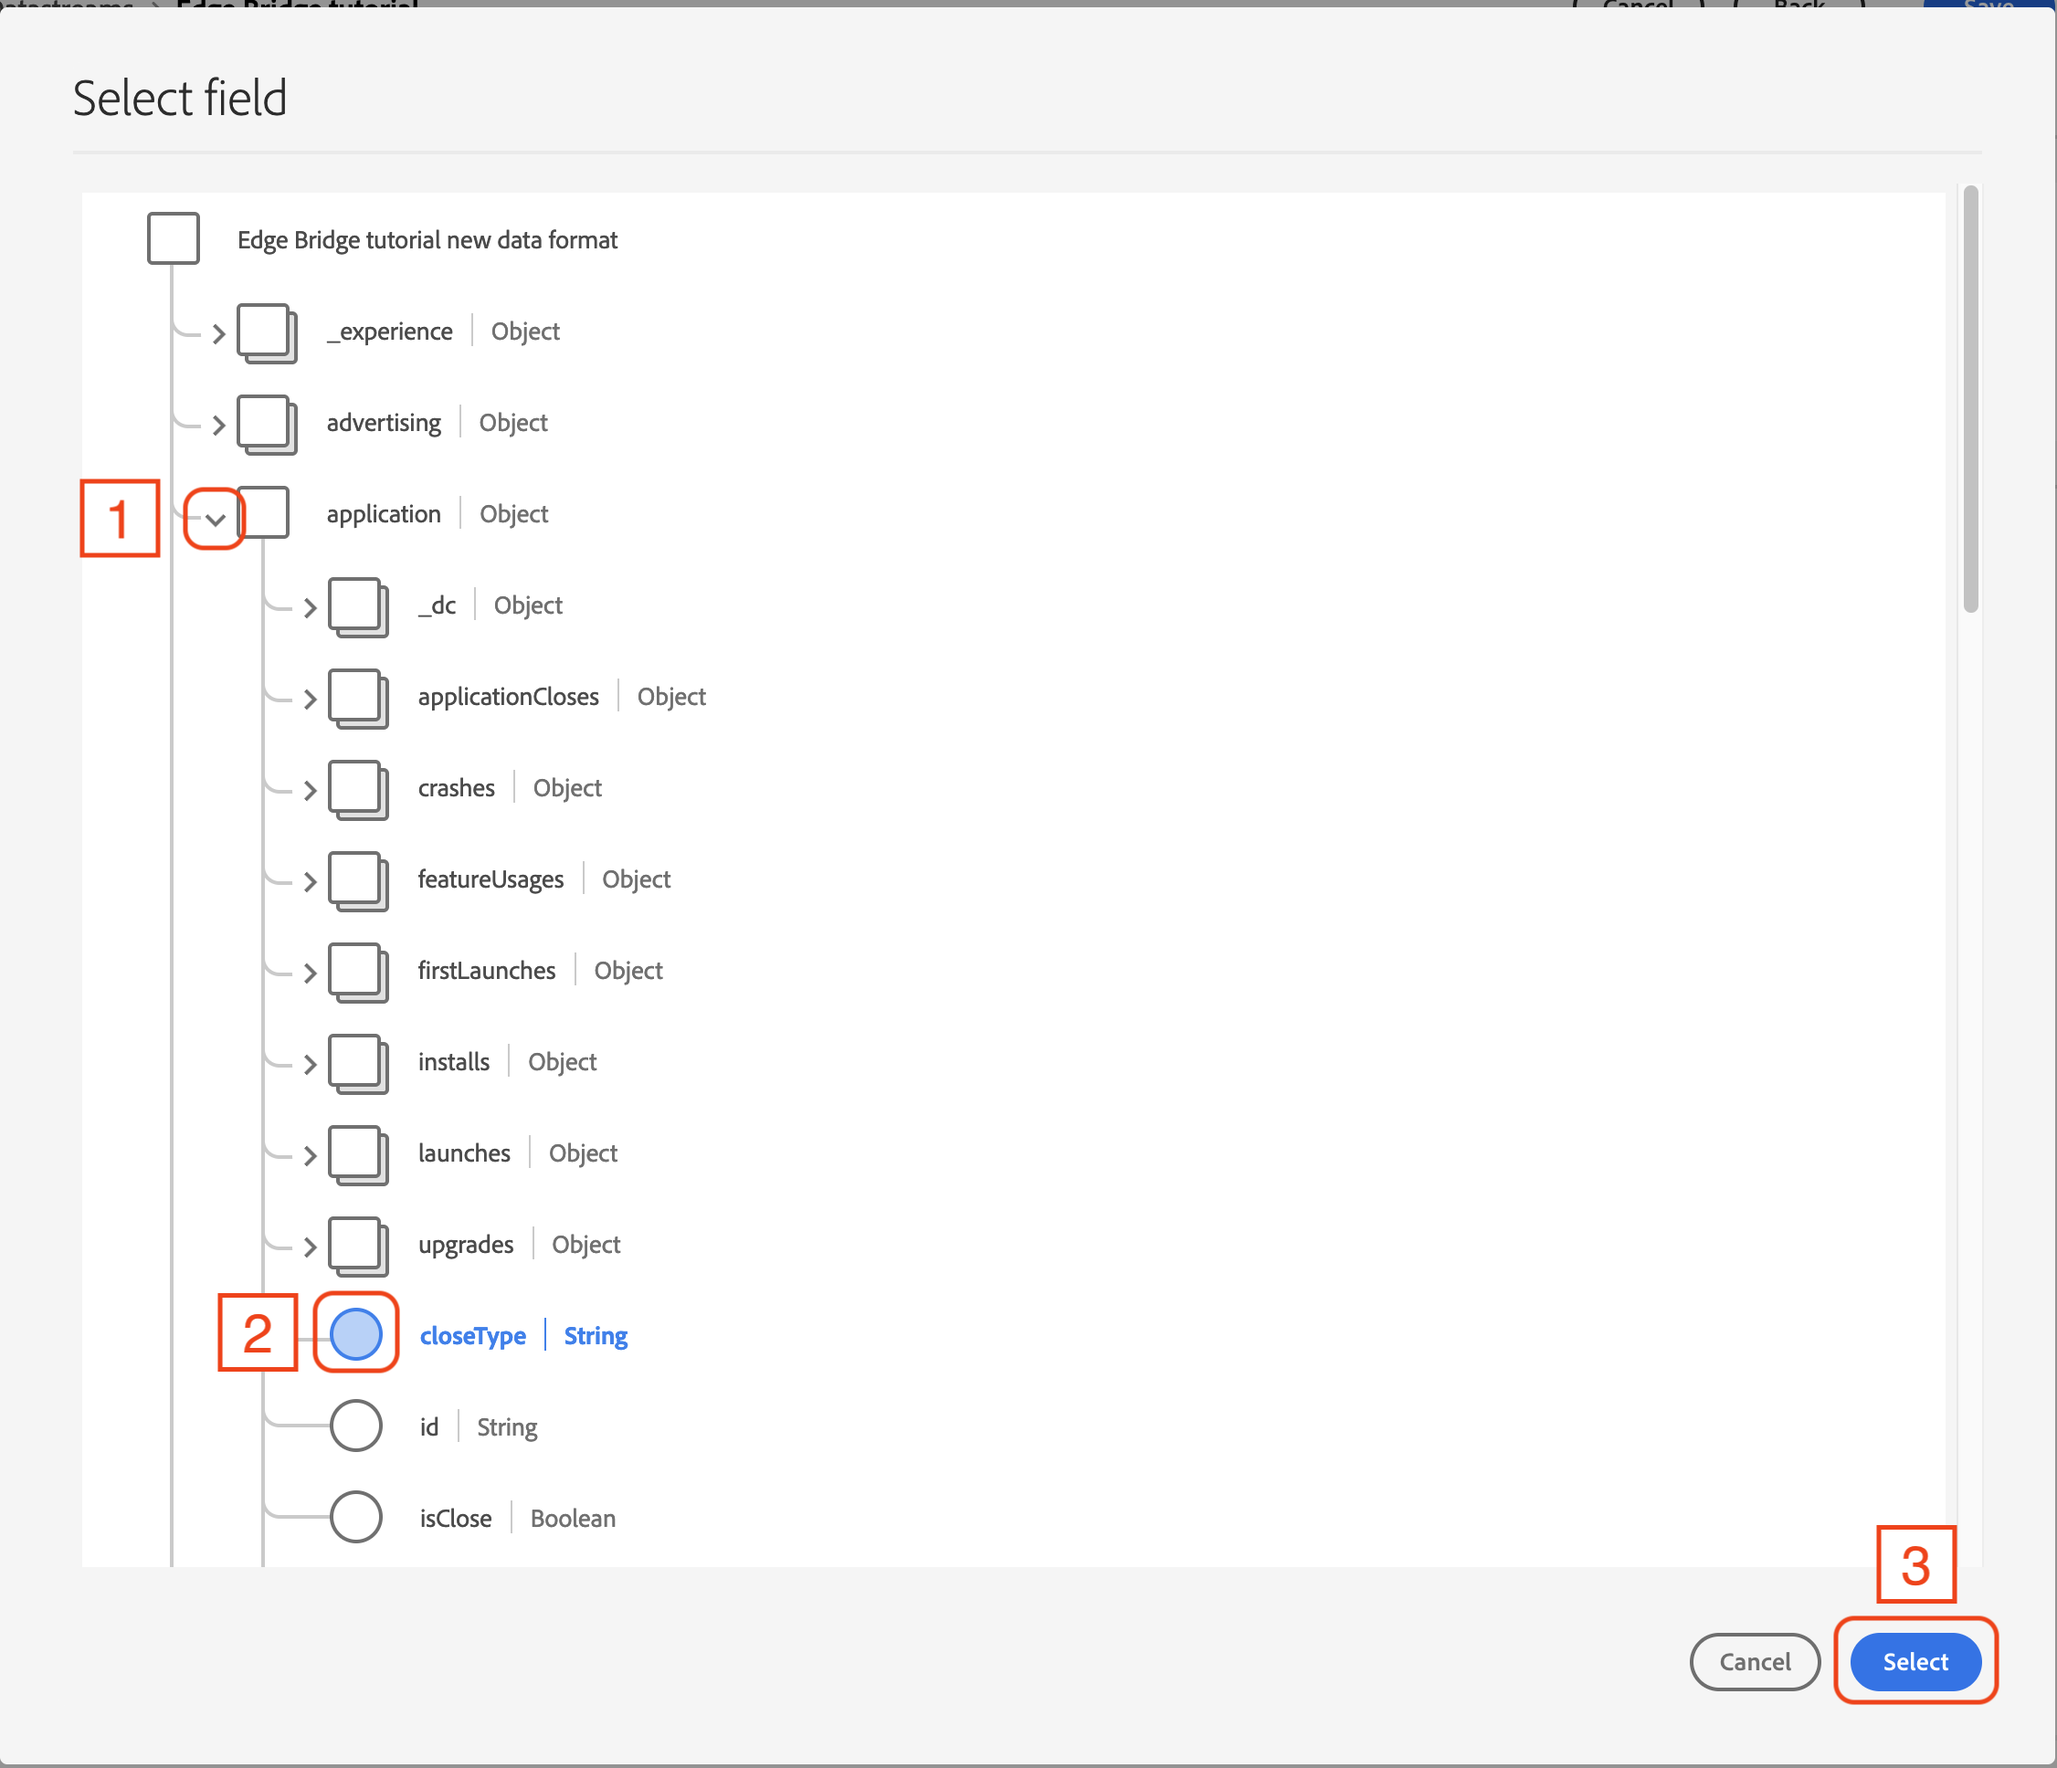
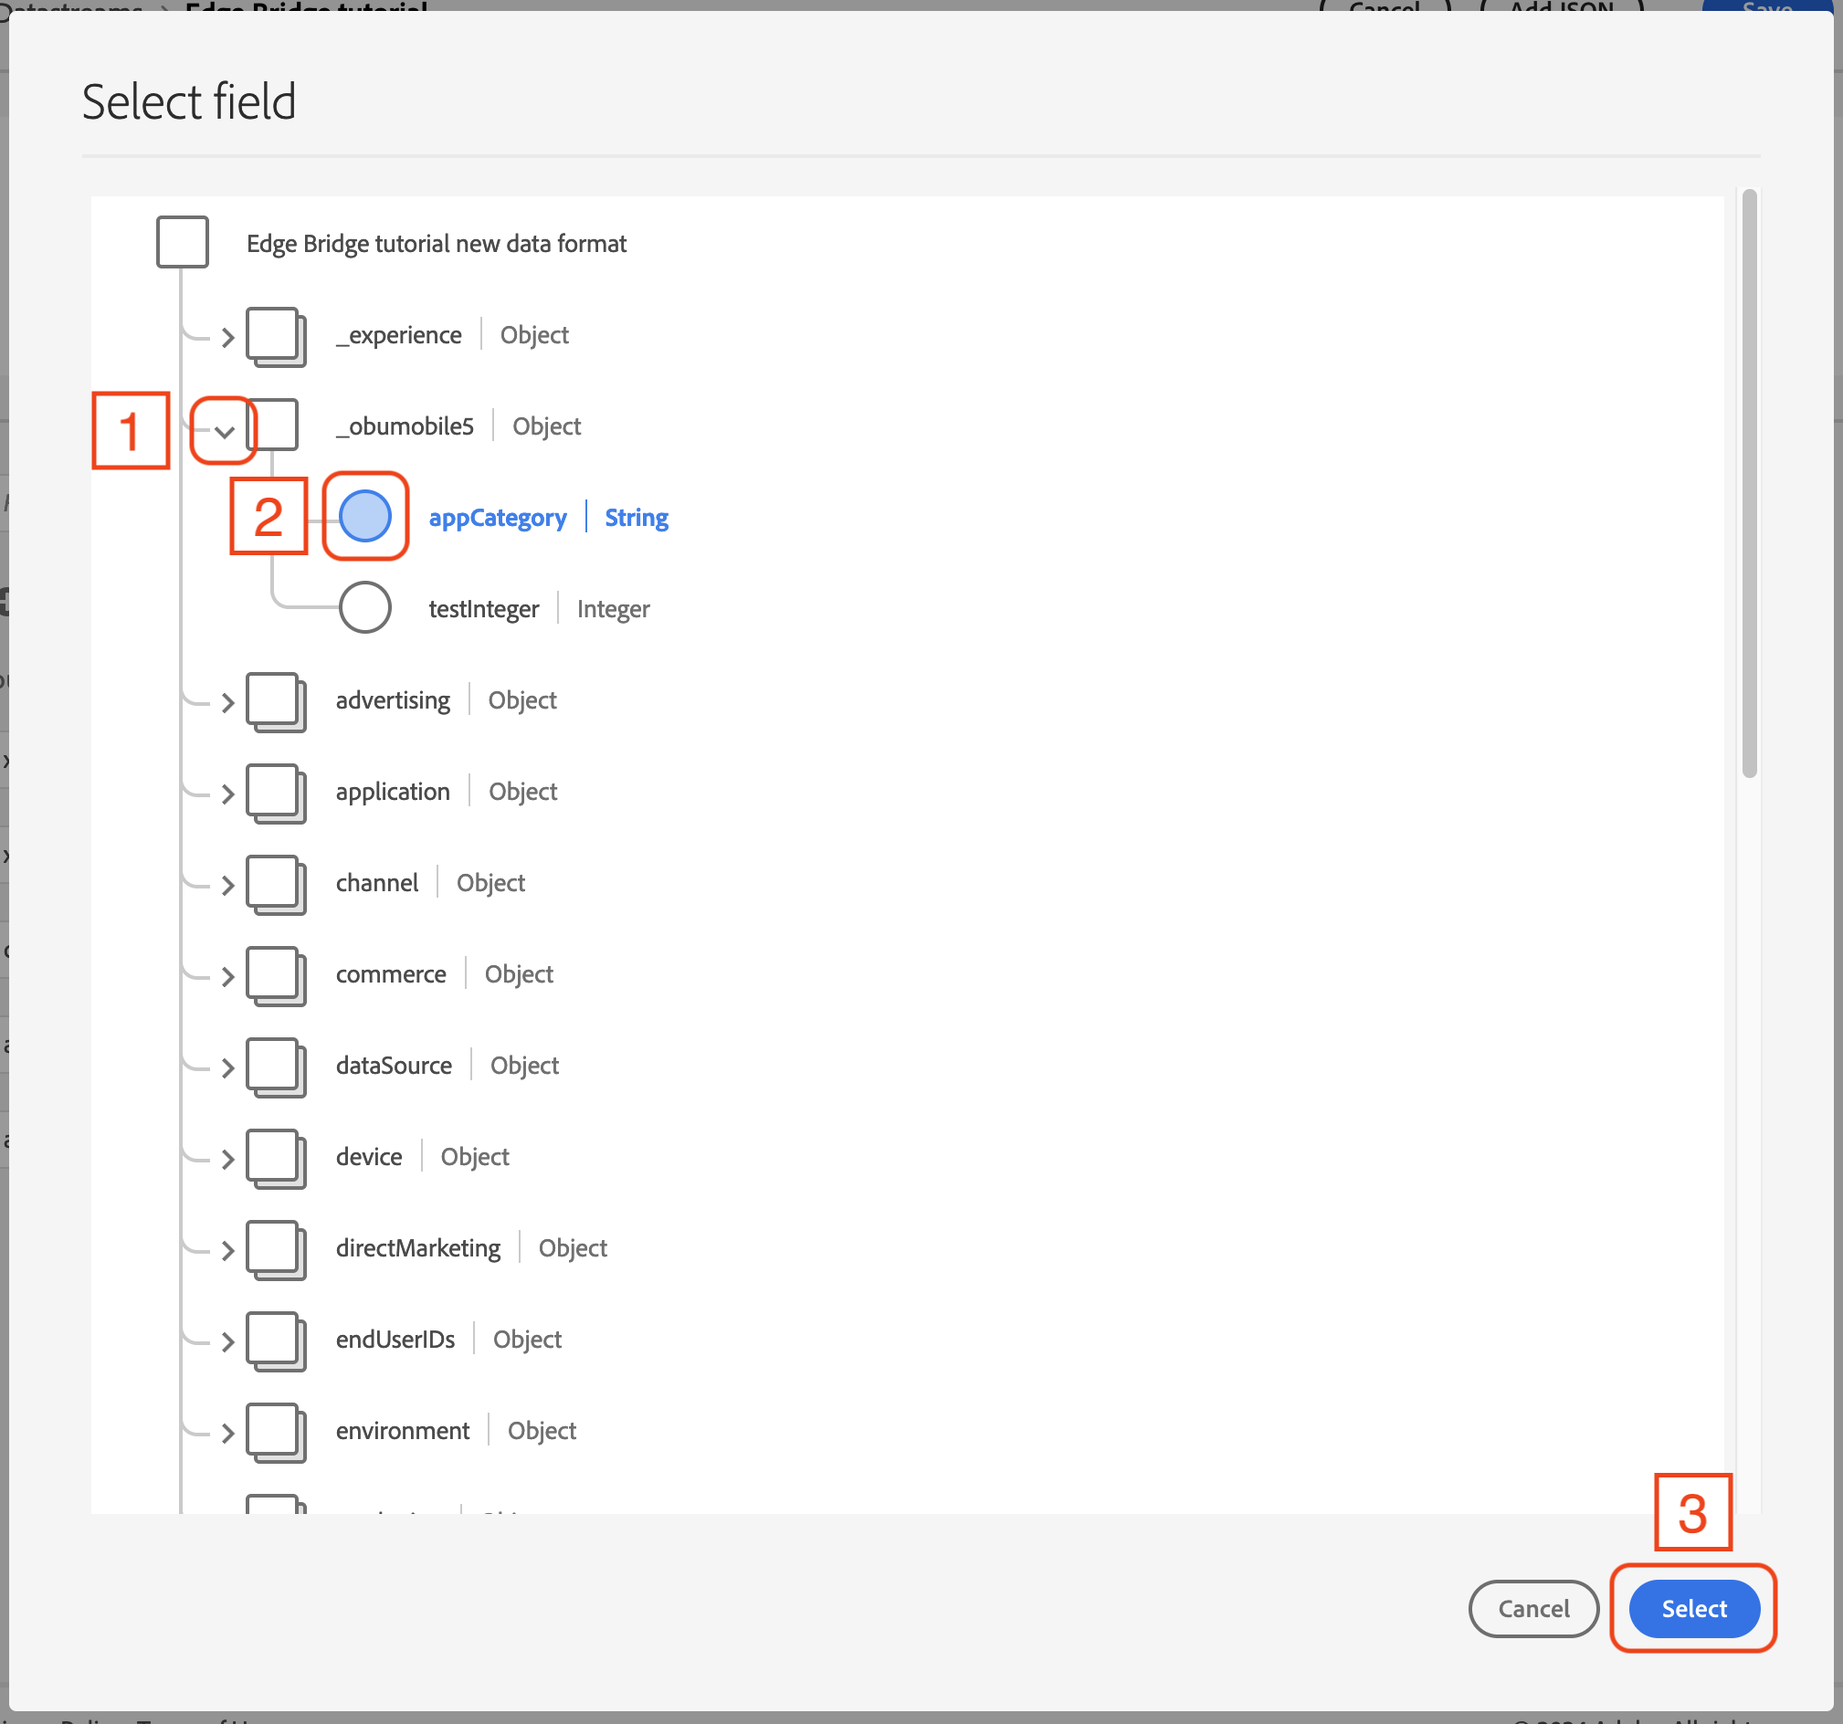
Update custom key mapping to use custom XDM property

Changed region(s): [[0.0, 0.0, 1.0, 1.0], [0.281, 0.8125, 0.3122, 0.8438], [0.2498, 0.6562, 0.281, 0.6875]]

diff --git a/Documentation/tutorials/data-prep-tutorial.md b/Documentation/tutorials/data-prep-tutorial.md
@@ -132,12 +132,15 @@ Now that the source field setup is complete, the next step is to map this proper
 
 <img src="../assets/edge-bridge-tutorial/data-prep/datastreams-mapping-xdm.png" alt="Datastream mapping XDM" width="1100"/>  
 
-7. In the XDM property viewer window, select the dropdown chevron next to **application** (**1**).
-8. Then choose the **closeType** property (**2**) and select **Select** (**3**).
+> [!NOTE]
+> The next steps rely on a custom property defined in the XDM schema. See how to create one in the documentation [Define XDM fields in the UI](https://experienceleague.adobe.com/en/docs/experience-platform/xdm/ui/fields/overview).
+
+1. In the XDM property viewer window, select the dropdown chevron next to **_obumobile5** (**1**) (this value will reflect your actual `_tenantId`).
+2. Then choose the **appCategory** property (**2**) (a custom property) and select **Select** (**3**).
 
 <img src="../assets/edge-bridge-tutorial/data-prep/datastreams-mapping-xdm-property.png" alt="Datastream mapping XDM property" width="1100"/>  
 
-The final result is a mapping from the custom `contextData` key `myapp.context` to `application.closeType`
+The final result is a mapping from the custom `contextData` key `myapp.context` to `_obumobile5.appCategory`.
 
 <img src="../assets/edge-bridge-tutorial/data-prep/datastreams-mapping-xdm-property-result.png" alt="Datastream mapping XDM property result" width="1100"/>  
 
